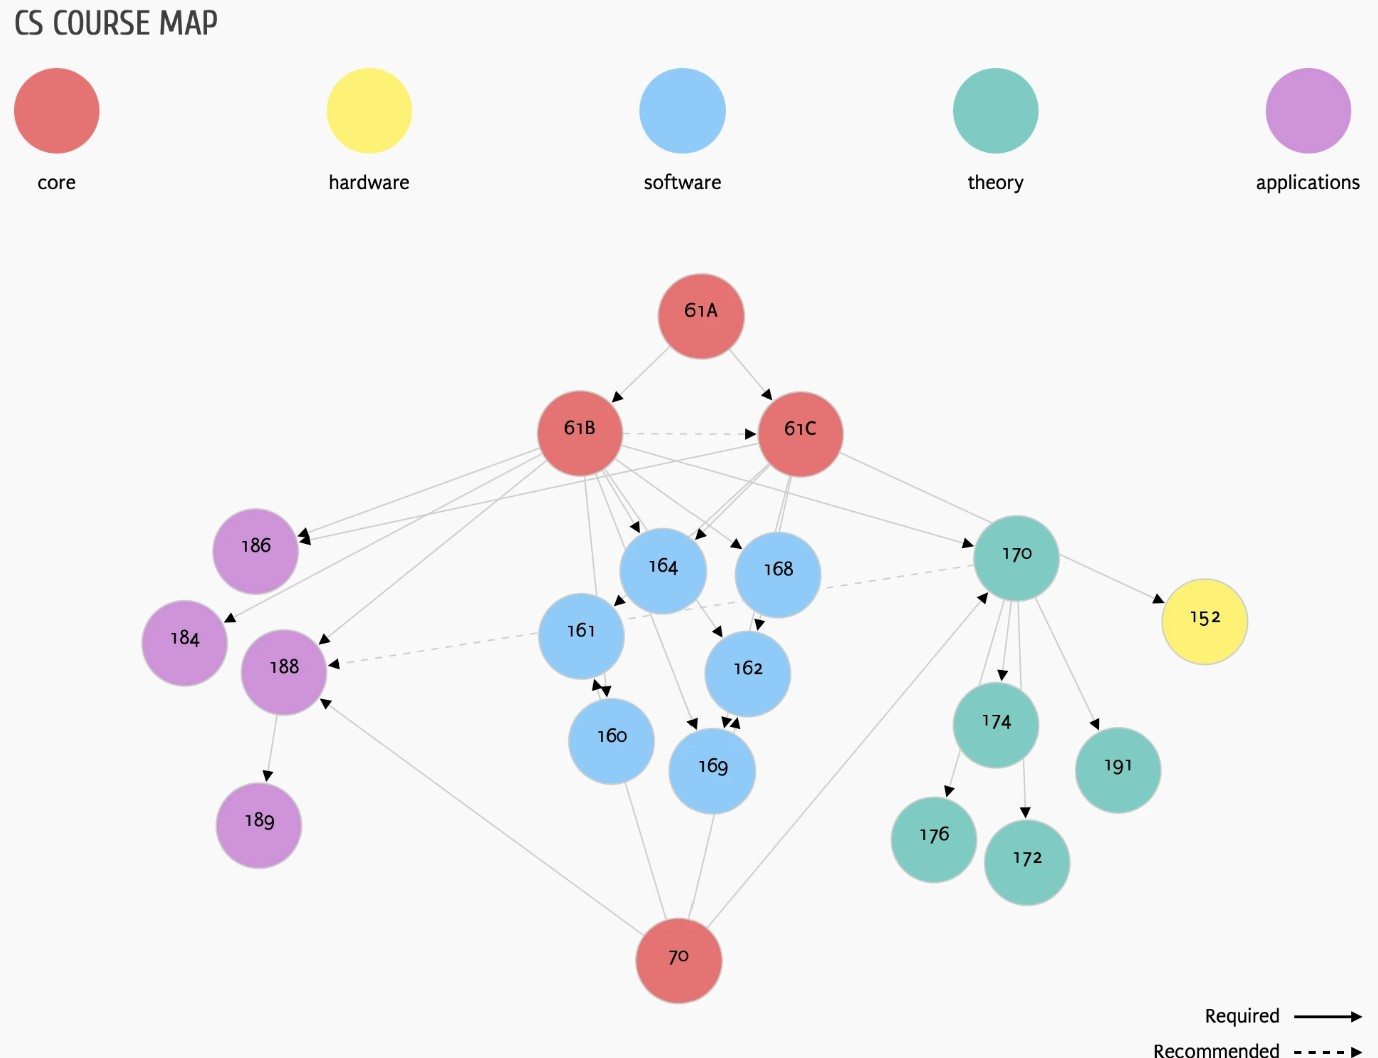
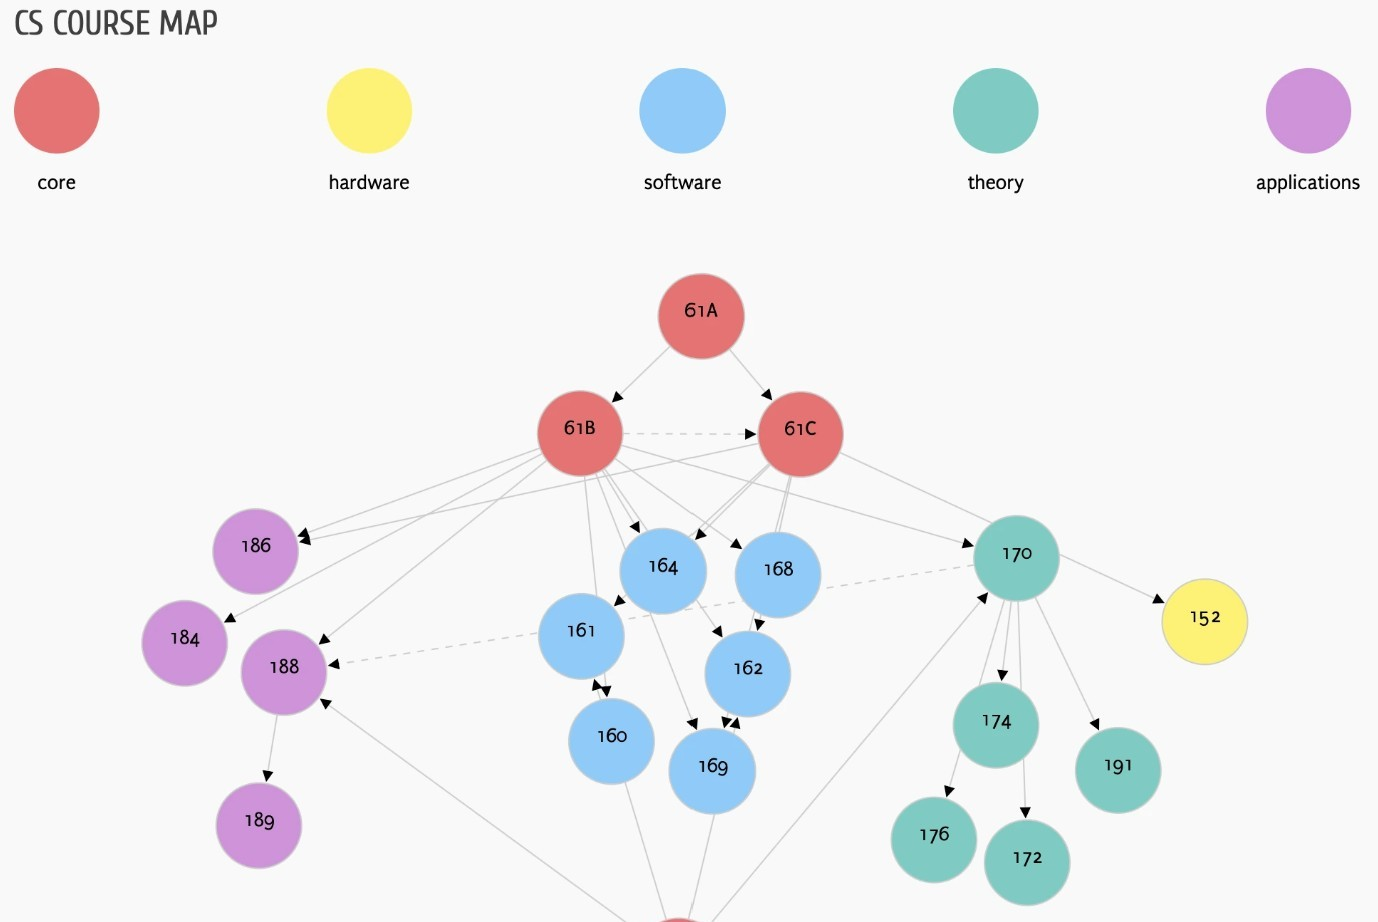
style(layout): unified images size.

diff --git a/index.html b/index.html
@@ -43,9 +43,9 @@
 <body>
 
 <!-- bio -->
-<table width="900px" align="center" cellpadding="20" cellspacing="0">
+<table width="900px" align="center" cellpadding="0" cellspacing="0">
   <tr>
-    <td width="600px">
+    <td width="600px" style="padding-right: 20px;">
     <h1 align="center">Hao(Hoyt) Xu</h1>
       <p>
         I'm a 1st-year MPhil student at Hong Kong University of Science and Technology - Guangzhou. Right now, I just determined to focus on Physical Simulation in Computer Graphics.
@@ -69,7 +69,7 @@
       </p>
     </td>
 
-    <td width="300px" align="center">  
+    <td width="300px" align="center" style="padding-left: 20px;">  
       <img id="profile-image" alt="profile photo" src="" width="100%">
       <script>
         // Set src immediately - browser will start loading right away

diff --git a/style.css b/style.css
@@ -78,7 +78,8 @@ paper {
 .card img, .card video {
   width: 100%;
   max-width: 300px;
-  height: auto;
+  height: 200px;
+  object-fit: cover;
   display: block;
 }
 